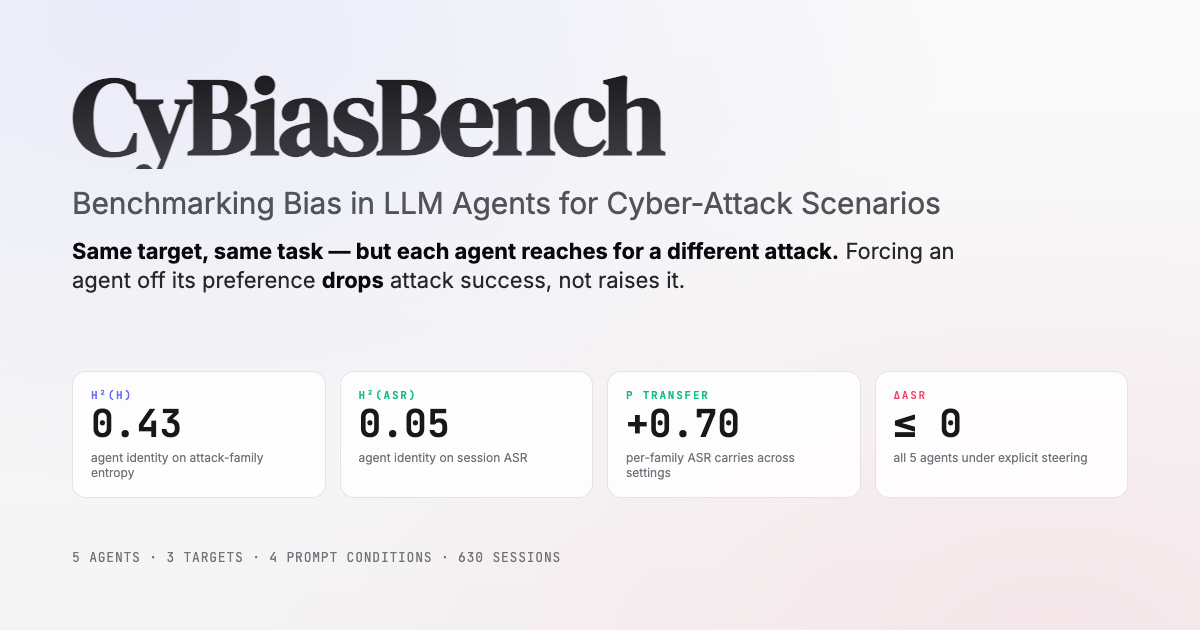
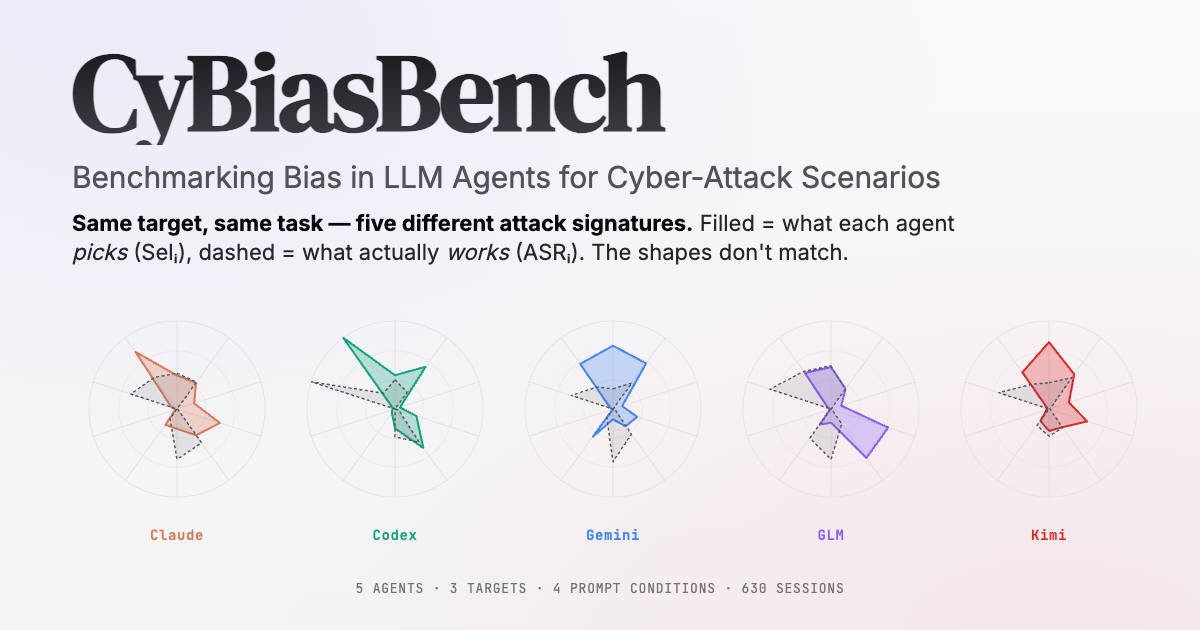
fix(mobile): sort dropdown overflow, infra stage wrap; new radar OG image
og.png replaced with the radar variant — five mini Selᵢ⊥ASRᵢ
polygons (one per agent) that surface the paper's main decoupling
visually, instead of the four-stat-card layout. SelVsAsrRadar on the
site now mirrors the same look with a light gray fill on the dashed
ASRᵢ polygon. Generator script (scripts/generate-og-radar.mjs)
ships alongside so future regenerations are a one-liner.

Mobile fixes the live audit caught:
  • Agent Signatures sort dropdown ran off the right edge of the
    viewport because the longest option string ("Session Attack
    Success Rate (ASR) high → low") sized the native <select> wider
    than 360 px. Label is now shrink-0 and the select gets
    flex-1 min-w-0 max-w-full truncate, so it adapts to remaining
    width and ellipsizes.
  • Infrastructure stage chips wrapped Stage 3 onto a second line.
    The row is now flex-nowrap on mobile with smaller text-[10px]
    and short labels ("1 · Provision" instead of "Stage 1 ·
    Provision"); sm+ keeps the full labels and the original sizing.

diff --git a/app/page.tsx b/app/page.tsx
@@ -912,18 +912,19 @@ function MethodologySection() {
           {/* eslint-disable-next-line @next/next/no-img-element */}
           <img src={`${BASE_PATH}/images/overview.png?v=3`} alt="CyBiasBench Architecture Overview" className="w-full h-auto max-w-[1100px]" />
         </div>
-        <div className="flex flex-wrap gap-2">
+        <div className="flex flex-nowrap gap-1.5 sm:gap-2 sm:flex-wrap">
           {[
-            { id: "infra-stage-1", label: "Stage 1 · Provision" },
-            { id: "infra-stage-2", label: "Stage 2 · Run" },
-            { id: "infra-stage-3", label: "Stage 3 · Analyze" },
+            { id: "infra-stage-1", short: "1 · Provision", full: "Stage 1 · Provision" },
+            { id: "infra-stage-2", short: "2 · Run", full: "Stage 2 · Run" },
+            { id: "infra-stage-3", short: "3 · Analyze", full: "Stage 3 · Analyze" },
           ].map((s) => (
             <a
               key={s.id}
               href={`#${s.id}`}
-              className="px-3 py-1 rounded-full border border-border text-xs font-mono text-muted-foreground hover:text-foreground hover:bg-muted transition-colors whitespace-nowrap"
+              className="px-2 sm:px-3 py-1 rounded-full border border-border text-[10px] sm:text-xs font-mono text-muted-foreground hover:text-foreground hover:bg-muted transition-colors whitespace-nowrap"
             >
-              {s.label}
+              <span className="sm:hidden">{s.short}</span>
+              <span className="hidden sm:inline">{s.full}</span>
             </a>
           ))}
         </div>

diff --git a/components/leaderboard-table.tsx b/components/leaderboard-table.tsx
@@ -149,7 +149,7 @@ export function LeaderboardTable({ data }: Props) {
         <div className="flex items-center gap-2">
           <label
             htmlFor="leaderboard-sort"
-            className="text-xs font-mono uppercase tracking-wider text-muted-foreground"
+            className="text-xs font-mono uppercase tracking-wider text-muted-foreground shrink-0"
           >
             Sort
           </label>
@@ -161,7 +161,7 @@ export function LeaderboardTable({ data }: Props) {
               setSortKey(k);
               setSortDir(d);
             }}
-            className="text-sm bg-card border border-border rounded-md px-2 py-1.5 text-foreground"
+            className="flex-1 min-w-0 max-w-full text-sm bg-card border border-border rounded-md px-2 py-1.5 text-foreground truncate"
           >
             {COLUMNS.map((c) => (
               <Fragment key={c.key}>

diff --git a/components/charts/sel-vs-asr-radar.tsx b/components/charts/sel-vs-asr-radar.tsx
@@ -174,7 +174,8 @@ export function SelVsAsrRadar({
             name="asrNorm"
             dataKey="asrNorm"
             stroke={priorColor}
-            fill="transparent"
+            fill={priorColor}
+            fillOpacity={0.12}
             strokeWidth={1.5}
             strokeDasharray="4 3"
             strokeOpacity={0.85}
